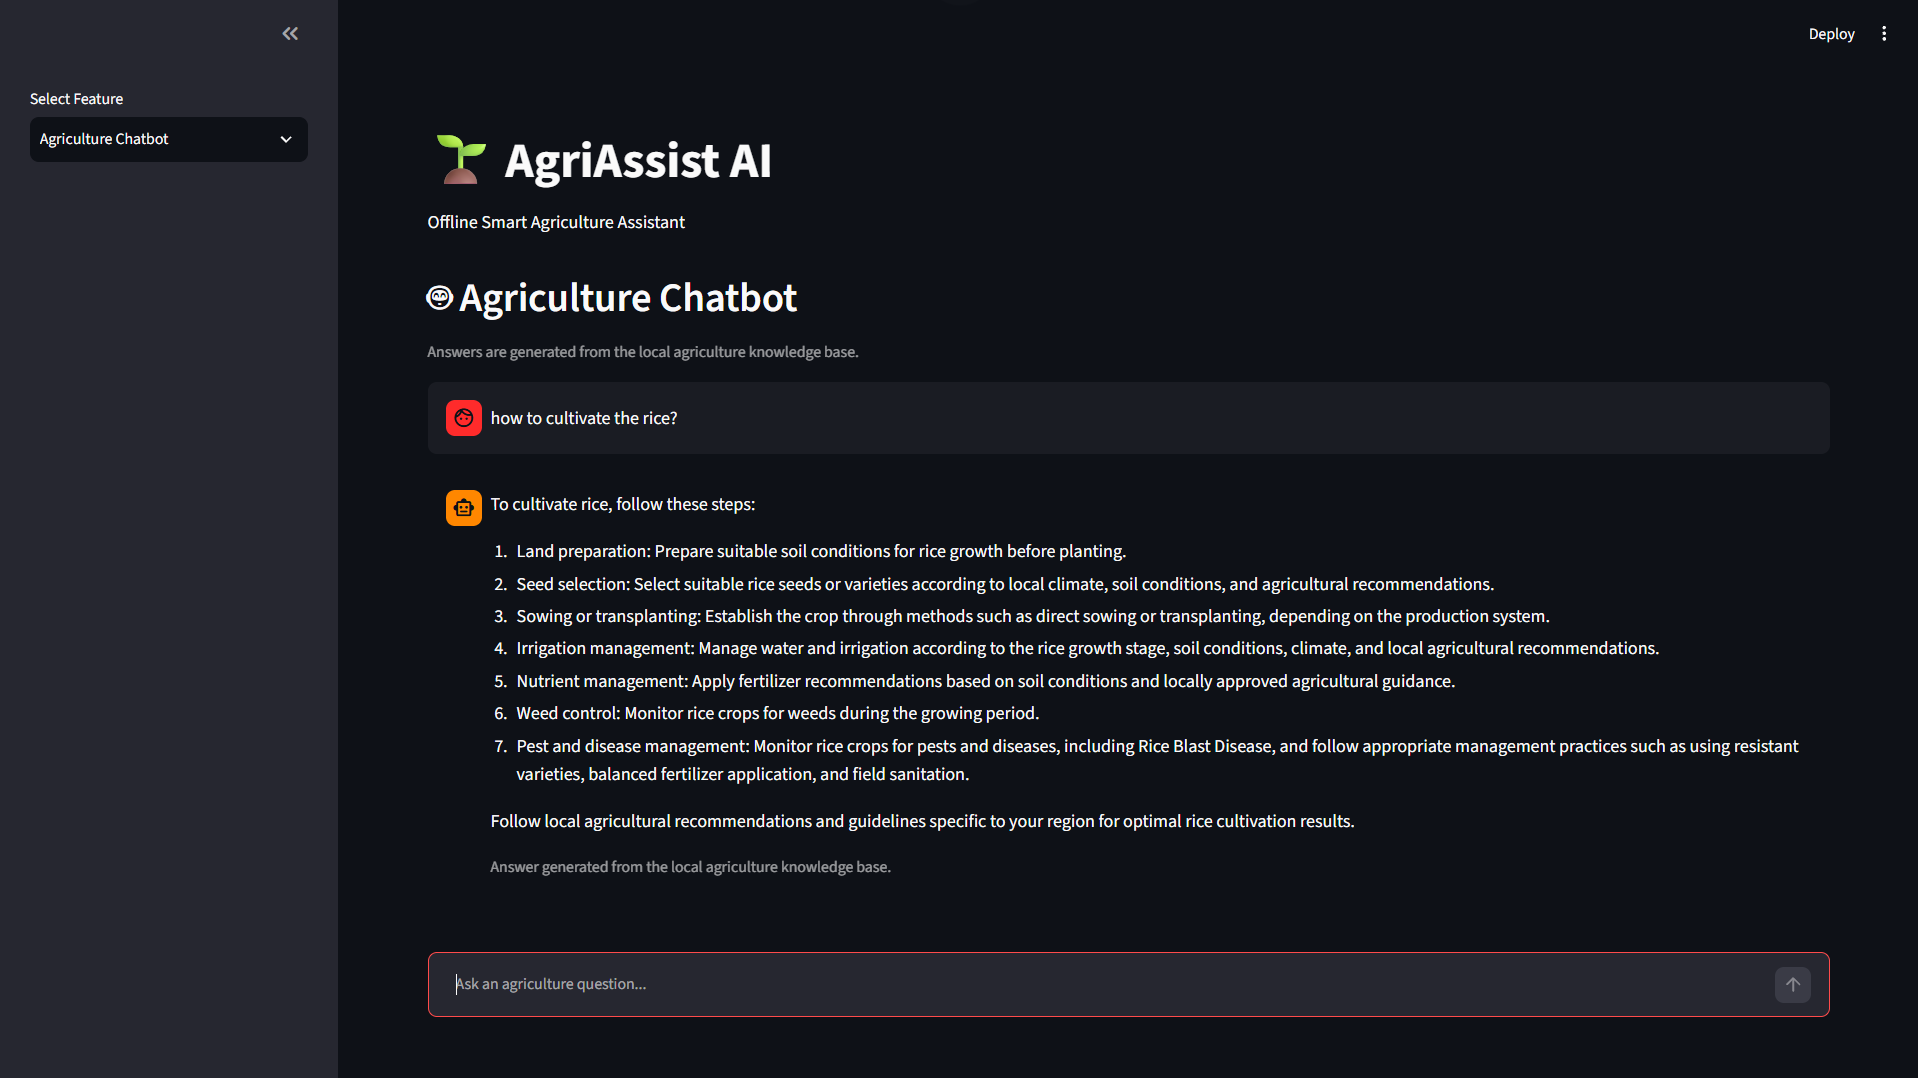
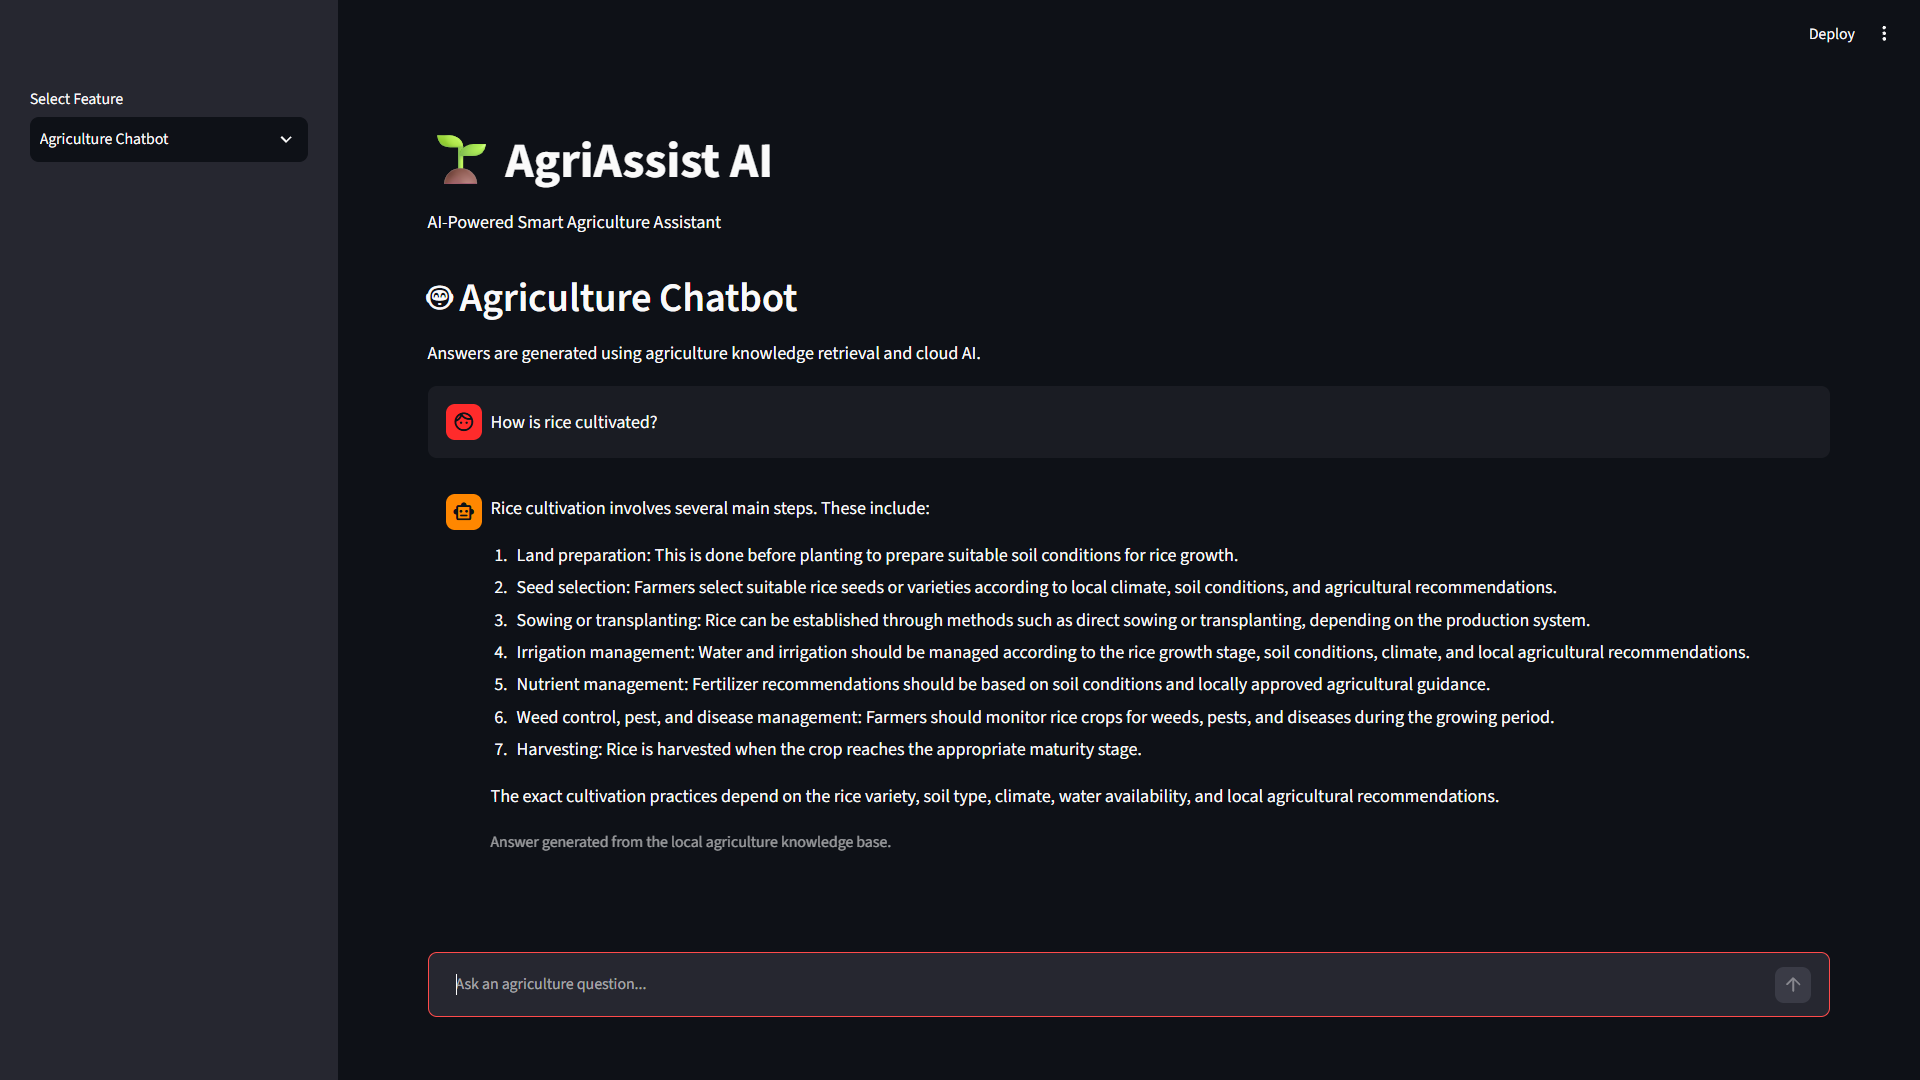
Replace Ollama with Groq API for cloud deployment

diff --git a/chatbot/llm_client.py b/chatbot/llm_client.py
@@ -1,0 +1,67 @@
+import os
+
+from dotenv import load_dotenv
+from groq import Groq
+
+
+load_dotenv()
+
+class LLMClient:
+
+    def __init__(self):
+
+        api_key = os.getenv("GROQ_API_KEY")
+
+        if not api_key:
+            raise ValueError(
+                "GROQ_API_KEY environment variable is not set."
+            )
+
+        self.client = Groq(
+            api_key=api_key
+        )
+
+        self.model_name = "llama-3.1-8b-instant"
+
+    def generate(self, prompt):
+
+        if not prompt or not prompt.strip():
+            return (
+                "Please provide a valid "
+                "agriculture question."
+            )
+
+        try:
+
+            response = self.client.chat.completions.create(
+                model=self.model_name,
+                messages=[
+                    {
+                        "role": "user",
+                        "content": prompt,
+                    }
+                ],
+                temperature=0.2,
+            )
+
+            generated_response = (
+                response.choices[0]
+                .message.content
+                .strip()
+            )
+
+            if not generated_response:
+                return (
+                    "The language model did not "
+                    "generate a response."
+                )
+
+            return generated_response
+
+        except Exception as error:
+
+            return (
+                "The cloud AI language model is "
+                "currently unavailable. "
+                f"Error: {error}"
+            )

diff --git a/chatbot/chatbot.py b/chatbot/chatbot.py
@@ -1,5 +1,5 @@
 from chatbot.intent_classifier import IntentClassifier
-from chatbot.ollama_client import OllamaClient
+from chatbot.llm_client import LLMClient
 from chatbot.prompt_builder import PromptBuilder
 from chatbot.query_router import QueryRouter
 
@@ -16,13 +16,16 @@ class AgriChatbot:
 
         self.retriever = AgricultureRetriever()
 
-        self.ollama_client = OllamaClient()
+        self.llm_client = LLMClient()
 
     def get_response(self, user_question):
 
         if not user_question.strip():
+
             return {
-                "answer": "Please enter an agriculture question.",
+                "answer": (
+                    "Please enter an agriculture question."
+                ),
                 "sources": [],
                 "intent": "general",
             }
@@ -31,7 +34,9 @@ class AgriChatbot:
             user_question
         )
 
-        route = self.query_router.route(intent)
+        route = self.query_router.route(
+            intent
+        )
 
         if route == "rag":
 
@@ -52,12 +57,18 @@ class AgriChatbot:
             }
 
         return {
-            "answer": "Unable to process the question.",
+            "answer": (
+                "Unable to process the question."
+            ),
             "sources": [],
             "intent": intent,
         }
 
-    def _rag_response(self, question, intent):
+    def _rag_response(
+        self,
+        question,
+        intent,
+    ):
 
         results = self.retriever.retrieve(
             question=question,
@@ -69,8 +80,9 @@ class AgriChatbot:
 
             return {
                 "answer": (
-                    "I could not find sufficient information "
-                    "in the local agriculture knowledge base."
+                    "I could not find sufficient "
+                    "information in the local "
+                    "agriculture knowledge base."
                 ),
                 "sources": [],
                 "intent": intent,
@@ -84,14 +96,16 @@ class AgriChatbot:
                 result["text"]
             )
 
-        context = "\n\n".join(context_parts)
+        context = "\n\n".join(
+            context_parts
+        )
 
         prompt = PromptBuilder.build_prompt(
             question=question,
             context=context,
         )
 
-        answer = self.ollama_client.generate(
+        answer = self.llm_client.generate(
             prompt
         )
 
@@ -106,7 +120,10 @@ class AgriChatbot:
             }
 
             if source not in sources:
-                sources.append(source)
+
+                sources.append(
+                    source
+                )
 
         return {
             "answer": answer,

diff --git a/app.py b/app.py
@@ -114,7 +114,7 @@ def main():
     st.title("🌱 AgriAssist AI")
 
     st.write(
-        "Offline Smart Agriculture Assistant"
+        "AI-Powered Smart Agriculture Assistant"
     )
 
     menu = st.sidebar.selectbox(
@@ -164,10 +164,10 @@ def chatbot_page():
         "🤖 Agriculture Chatbot"
     )
 
-    st.caption(
-        "Answers are generated from the local "
-        "agriculture knowledge base."
-    )
+    st.write(
+    "Answers are generated using agriculture "
+    "knowledge retrieval and cloud AI."
+)
 
     user_question = st.chat_input(
         "Ask an agriculture question..."